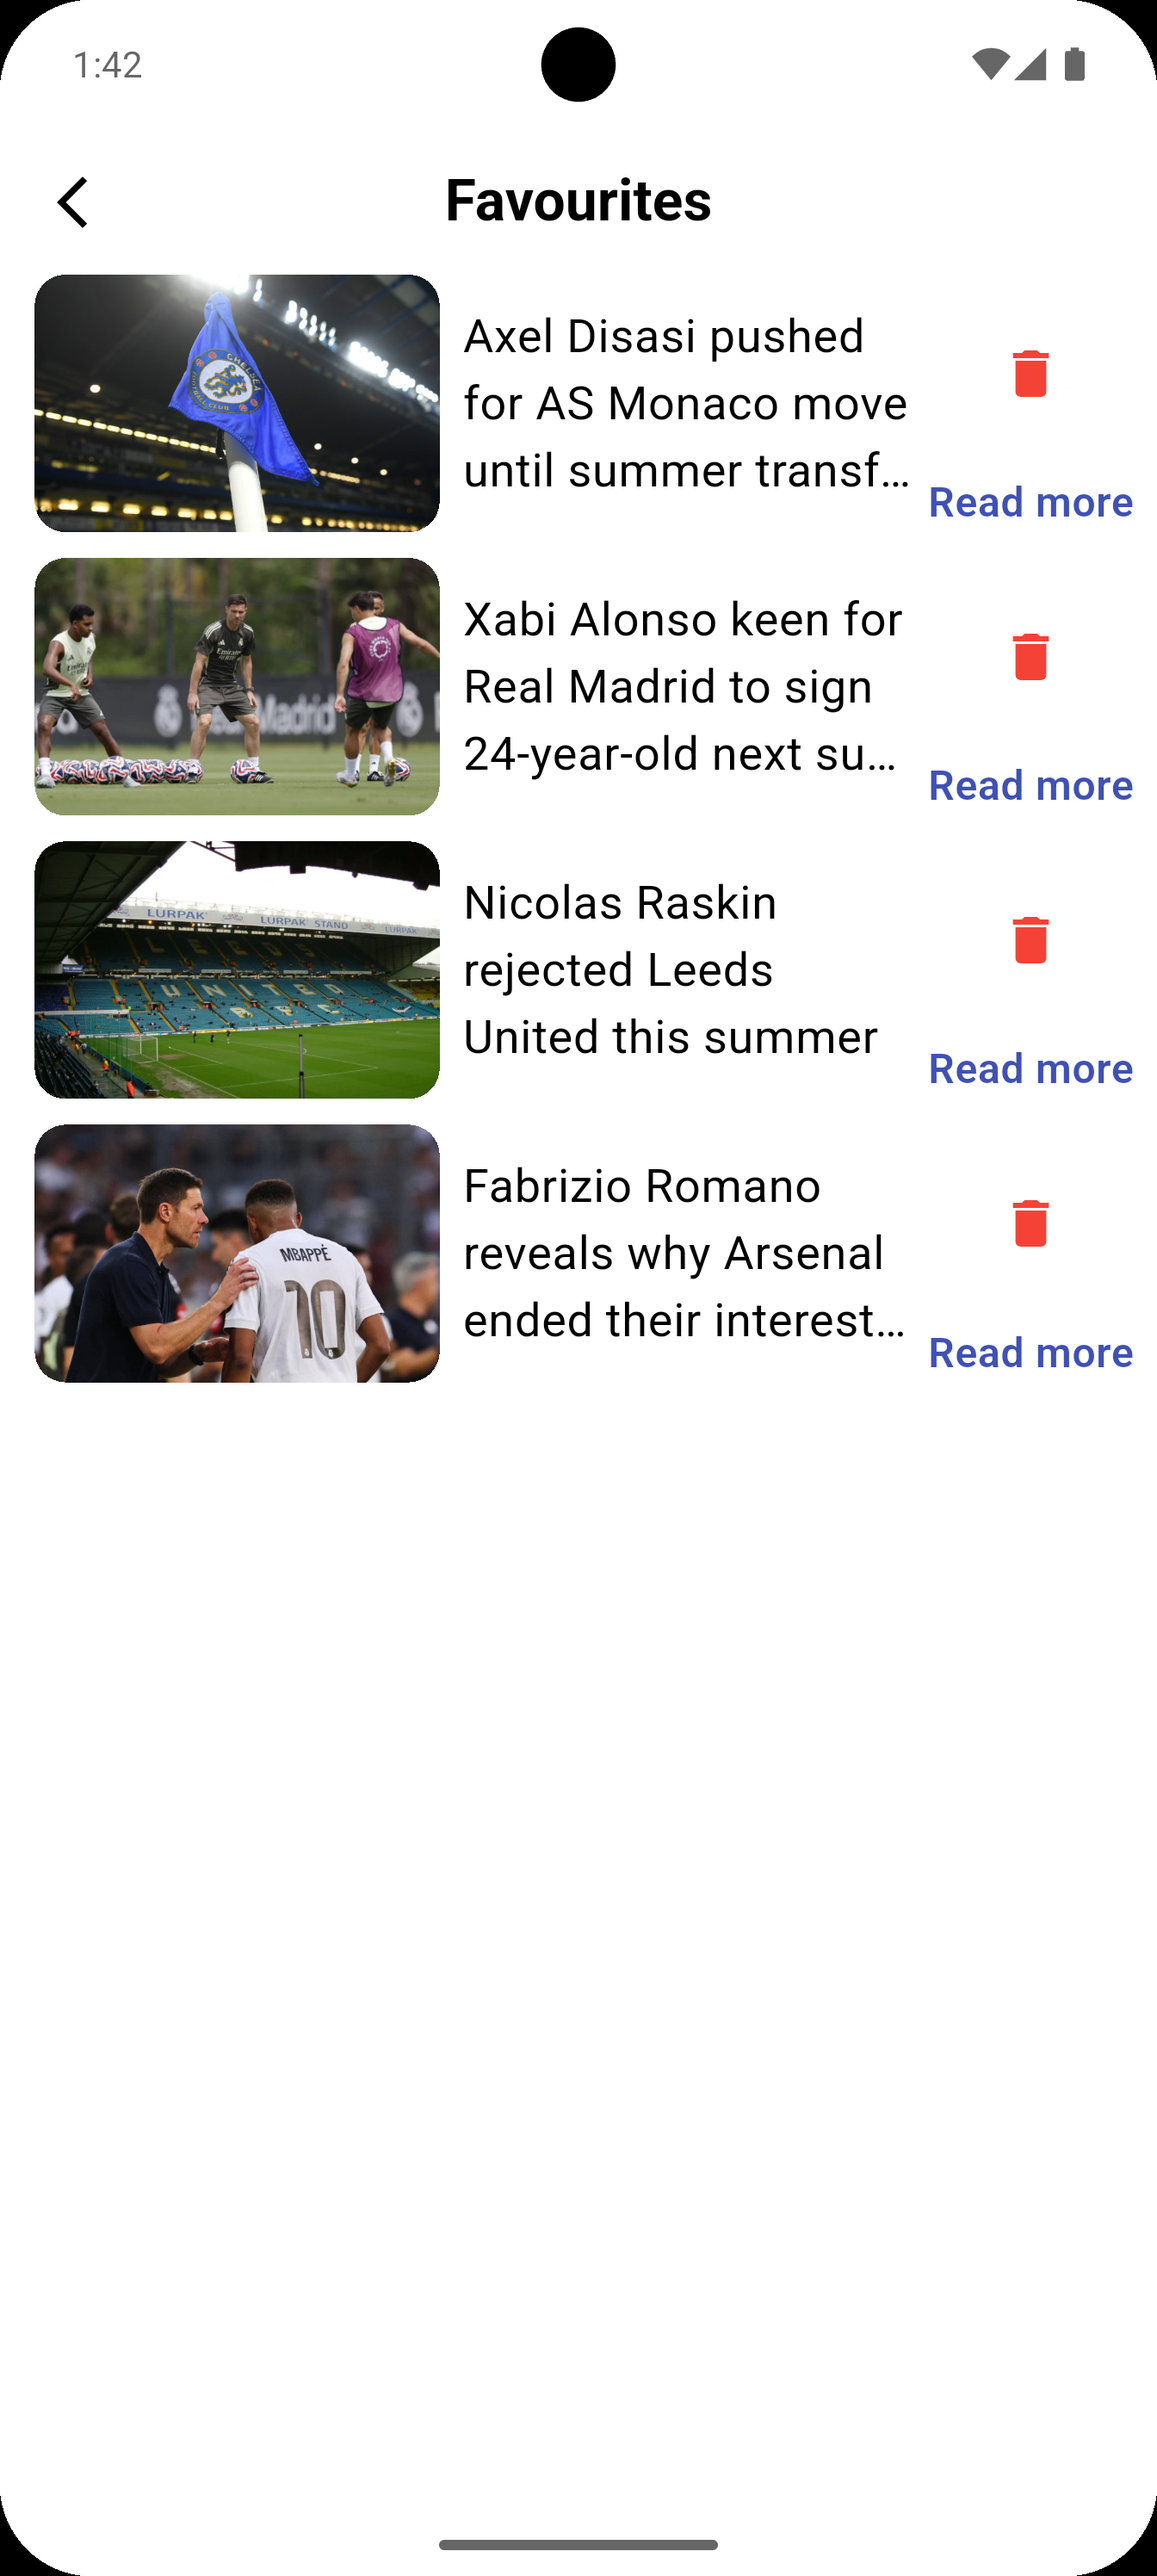
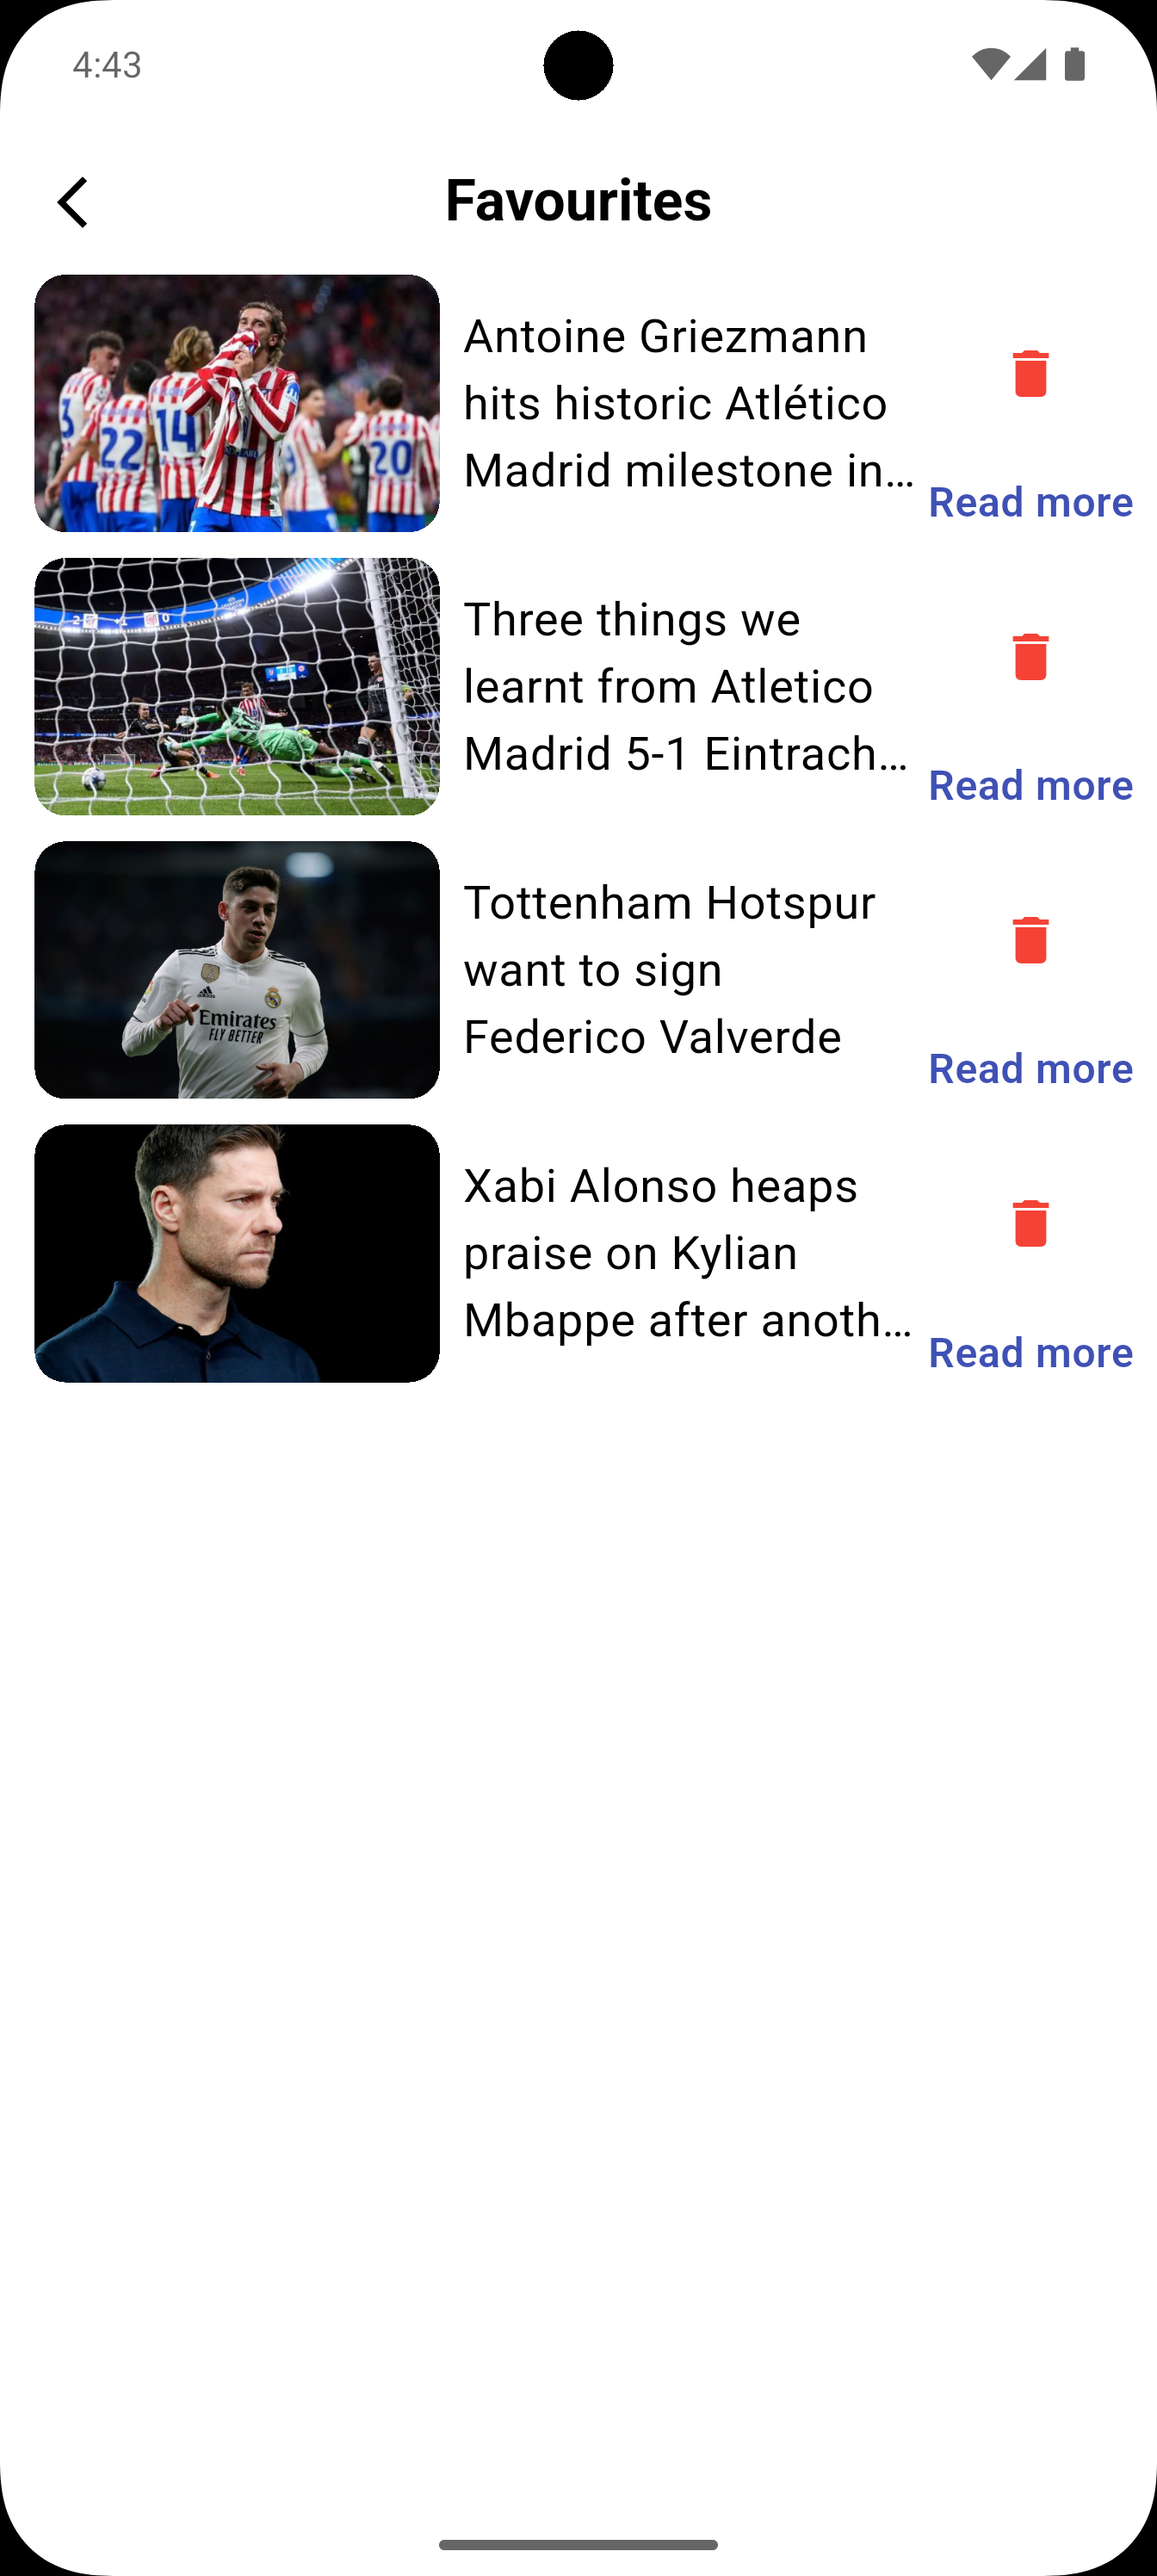
News API changed to dynamic

diff --git a/lib/features/home/data/data_sources/remote/news_remote_data_source_impl.dart b/lib/features/home/data/data_sources/remote/news_remote_data_source_impl.dart
@@ -1,48 +1,24 @@
 import 'dart:convert';
 import 'package:http/http.dart' as http;
-// import 'package:dio/dio.dart';
 import 'package:football_news_app/features/home/data/data_sources/remote/news_remote_data_source.dart';
 import 'package:football_news_app/features/home/data/models/news_model.dart';
 import 'package:logger/logger.dart';
 
-// class NewsRemoteDataSourceImpl implements NewsRemoteDataSource {
-//   final Dio dio;
-//   var logger = Logger();
-//   NewsRemoteDataSourceImpl(this.dio);
-//
-//   @override
-//   Future<List<NewsModel>> getNews() async {
-//     try {
-//       final response = await dio.get(
-//         'https://football-news11.p.rapidapi.com/api/news-by-date?date=2025-09-01&lang=en&page=1',
-//         options: Options(
-//           headers: {
-//             'x-rapidapi-host': 'football-news11.p.rapidapi.com',
-//             'x-rapidapi-key': 'd6d521f0femsh05382e18ec00c6fp1fb1c0jsn99bed1e38873',
-//           },
-//         ),
-//       );
-//       if(response.statusCode == 200 || response.statusCode == 201) {
-//         final List<dynamic> result = response.data['result'];
-//         return result.map((json) => NewsModel.fromJson(json)).toList();
-//       } else {
-//         throw Exception('${response.statusCode}');
-//       }
-//     } catch (e) {
-//       logger.e(e.toString());
-//       rethrow;
-//     }
-//   }
-// }
-
 class NewsRemoteDataSourceImpl implements NewsRemoteDataSource {
   var logger = Logger();
-  NewsRemoteDataSourceImpl();
+  final date = DateTime.now().toIso8601String().toString();
+  final lang = 'en';
+  final page = 1;
 
   @override
   Future<List<NewsModel>> getNews() async {
+    final queryParameters = {
+      "date": date,
+      "lang": lang,
+      "page": page,
+    };
     try {
-      final uri =  Uri.parse('https://football-news11.p.rapidapi.com/api/news-by-date?date=2025-09-10&lang=en&page=1');
+      final uri =  Uri.parse('https://football-news11.p.rapidapi.com/api/news-by-date?$queryParameters');
       final headers = {
         'x-rapidapi-host': 'football-news11.p.rapidapi.com',
         'x-rapidapi-key': 'd6d521f0femsh05382e18ec00c6fp1fb1c0jsn99bed1e38873',
@@ -61,69 +37,3 @@ class NewsRemoteDataSourceImpl implements NewsRemoteDataSource {
     }
   }
 }
-
-// class NewsRemoteDataSourceImpl implements NewsRemoteDataSource {
-//   var logger = Logger();
-//   NewsRemoteDataSourceImpl();
-//
-//   @override
-//   Future<List<NewsModel>> getNews() async {
-//     try {
-//       final response = await http.get(
-//           Uri.parse('https://football-news11.p.rapidapi.com/api/news-by-date?date=2025-09-01&lang=en&page=1'),
-//       );
-//       final headers = {
-//         'x-rapidapi-host': 'football-news11.p.rapidapi.com',
-//         'x-rapidapi-key': 'd6d521f0femsh05382e18ec00c6fp1fb1c0jsn99bed1e38873',
-//       };
-//
-//     //  final response = await http.get(uri, headers: headers);
-//       if(response.statusCode == 200 || response.statusCode == 201) {
-//         var data = jsonDecode(response.body)[headers];
-//         final List<dynamic> result = data['result'];
-//         return result.map((json) => NewsModel.fromJson(json)).toList();
-//       } else {
-//         throw Exception('${response.statusCode}');
-//       }
-//     } catch (e) {
-//       logger.e(e.toString());
-//       rethrow;
-//     }
-//   }
-// }
-
-// class NewsRemoteDataSourceImpl implements NewsRemoteDataSource {
-//   final Dio dio;
-//   var logger = Logger();
-//   NewsRemoteDataSourceImpl(this.dio);
-//   final date = DateTime.now().toIso8601String();
-//
-//   @override
-//   Future<List<NewsModel>> getNews() async {
-//     try {
-//     final response = await dio.get(
-//       'https://football-news11.p.rapidapi.com/api/news-by-date',
-//        queryParameters: {
-//         'date': date,
-//          'lang': 'en',
-//          'page': 1,
-//       },
-//       options: Options(
-//         headers: {
-//           'x-rapidapi-host': 'football-news11.p.rapidapi.com',
-//           'x-rapidapi-key': 'd6d521f0femsh05382e18ec00c6fp1fb1c0jsn99bed1e38873',
-//         },
-//       ),
-//     );
-//     if(response.statusCode == 200 || response.statusCode == 201) {
-//       final List<dynamic> result = response.data['result'];
-//        return result.map((json) => NewsModel.fromJson(json)).toList();
-//     } else {
-//       throw Exception('${response.statusCode}');
-//     }
-//     } catch (e) {
-//       logger.e(e.toString());
-//       rethrow;
-//     }
-//   }
-// }

diff --git a/lib/features/home/presentation/pages/home/home_page.dart b/lib/features/home/presentation/pages/home/home_page.dart
@@ -70,7 +70,7 @@ class _HomePageState extends ConsumerState<HomePage> {
                         fontSize: 24,
                         fontWeight: FontWeight.bold,
                       ),
-                    ),
+                    ).tr(),
                     SizedBox(height: screenHeight * 0.01),
                     GestureDetector(
                       onTap: (){Navigator.pushReplacementNamed(context, RouteNames.signUpPage);},
@@ -80,7 +80,7 @@ class _HomePageState extends ConsumerState<HomePage> {
                           color: Colors.blue,
                           fontSize: 22,
                         ),
-                      ),
+                      ).tr(),
                     ),
                   ],
                 ),
@@ -191,6 +191,7 @@ class _HomePageState extends ConsumerState<HomePage> {
                 ),
                 itemCount: newsState.newsEntity.length,
                 itemBuilder: (context, index) {
+                  final dateFormat = DateFormat('dd/MM/yyyy').format(newsState.newsEntity[index].publishedAt);
                   return
                   ImgTitle(
                     onTap: () {
@@ -202,6 +203,7 @@ class _HomePageState extends ConsumerState<HomePage> {
                     },
                     image: newsState.newsEntity[index].image ?? '',
                     title: newsState.newsEntity[index].title ?? '',
+                    date: dateFormat,
                     originalUrl: newsState.newsEntity[index].originalUrl ?? '',
                     index:newsState.newsEntity[index].id ?? 0,
                   );

diff --git a/lib/features/home/presentation/riverpod/news_provider.dart b/lib/features/home/presentation/riverpod/news_provider.dart
@@ -1,4 +1,3 @@
-import 'package:dio/dio.dart';
 import 'package:flutter/material.dart';
 import 'package:flutter_riverpod/flutter_riverpod.dart';
 import 'package:football_news_app/features/home/data/data_sources/local/hive_local_data_source.dart';
@@ -17,16 +16,9 @@ import '../../data/data_sources/remote/news_remote_data_source_impl.dart';
 import '../../domain/use_cases/delete_from_favourites_use_case.dart';
 import '../../domain/use_cases/get_from_favourites_use_case.dart';
 
-final dioProvider = Provider<Dio>((ref) => Dio());
-
-// final newsRemoteDataSourceProvider = Provider<NewsRemoteDataSource>((ref) {
-//   return NewsRemoteDataSourceImpl(ref.watch(dioProvider));
-// });
-
 final newsRemoteDataSourceProvider = Provider<NewsRemoteDataSource>((ref) {
   return NewsRemoteDataSourceImpl();
 });
-
 
 final hiveLocalDataSourceProvider = Provider<HiveLocalDataSource>((ref) {
   return HiveLocalDataSourceImpl();
@@ -62,7 +54,6 @@ final getFavouritesUseCaseProvider = Provider<GetFavouritesUseCase>((ref) {
 final deleteFavouritesUseCaseProvider = Provider<DeleteFavouritesUseCase>((ref) {
   return DeleteFavouritesUseCase(newsRepository: ref.watch(newsRepositoryProvider));
 });
-
 
 final addToFavouritesNotifier = StateNotifierProvider<AddToFavouritesNotifier, FavouritesState>((ref) {
   return AddToFavouritesNotifier(

diff --git a/lib/features/home/presentation/riverpod/theme/theme.dart b/lib/features/home/presentation/riverpod/theme/theme.dart
@@ -1,6 +1,5 @@
 import 'package:flutter/material.dart';
 import 'package:flutter_riverpod/flutter_riverpod.dart';
-import 'package:football_news_app/features/home/data/data_sources/local/shar_pr_local_data_source.dart';
 import 'package:shared_preferences/shared_preferences.dart';
 
 class ThemeNotifier extends StateNotifier<ThemeMode> {
@@ -20,24 +19,3 @@ class ThemeNotifier extends StateNotifier<ThemeMode> {
     state = isDark != null && isDark ? state = ThemeMode.dark : state = ThemeMode.light;
   }
 }
-
-// class ThemeNotifier extends StateNotifier<ThemeMode> {
-//   final SharedPrefLocalDataSource localDataSource;
-//
-//   ThemeNotifier(this.localDataSource) : super(ThemeMode.light);
-//
-//   Future<void> saveTheme() async {
-//     final isDark = await localDataSource.saveTheme();
-//     state = isDark ? ThemeMode.light : ThemeMode.dark;
-//   }
-//
-//   Future<void> changeTheme() async {
-//     if (state == ThemeMode.dark) {
-//       state == ThemeMode.light;
-//       await localDataSource.toggleDarkMode(true);
-//     } else {
-//       state == ThemeMode.light;
-//       await localDataSource.toggleDarkMode(false)
-//     }
-//   }
-// }

diff --git a/lib/features/home/presentation/widgets/home/img_title.dart b/lib/features/home/presentation/widgets/home/img_title.dart
@@ -8,12 +8,14 @@ class ImgTitle extends ConsumerStatefulWidget {
   final Function onTap;
   final String image;
   final String title;
+  final String date;
   final int index;
   final String originalUrl;
   const ImgTitle({
     super.key,
     required this.image,
     required this.title,
+    required this.date,
     required this.index,
     required this.onTap,
     required this.originalUrl,
@@ -103,8 +105,11 @@ class _ImgTitleState extends ConsumerState<ImgTitle> {
             ),
           ),
           Row(
-            mainAxisAlignment: MainAxisAlignment.end,
             children: [
+              Text(
+                widget.date,
+              ),
+              Spacer(),
               GestureDetector(
                 onTap: () => widget.onTap(),
                 child: Text(

diff --git a/README.md b/README.md
@@ -7,7 +7,7 @@ The app delivers the latest football news with secure authentication, multi-lang
 
 ## ✨ Features
 
-- 🌐 **REST API integration** for fetching football news
+- 🌐 **REST API integration** for fetching the latest football news
 - 🔐 **Firebase Authentication** for user login & signup
 - 🌍 **Multi-language support** with Easy Localization
 - 🌙 **Dark/Light mode** with Shared Preferences
